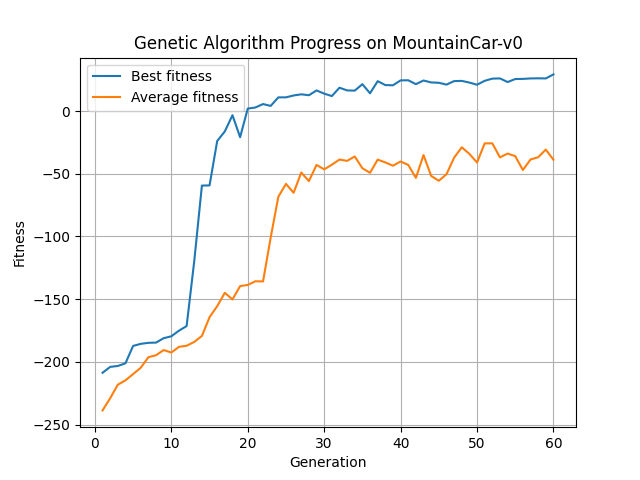
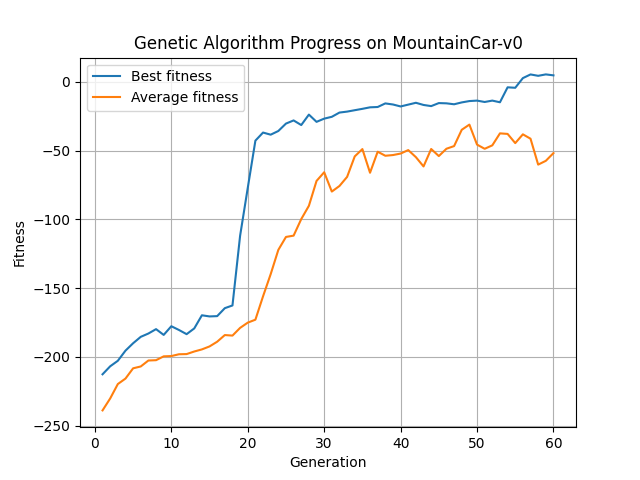
initial fix

diff --git a/mountain_car_ga.py b/mountain_car_ga.py
@@ -318,7 +318,7 @@ if __name__ == "__main__":
     best_individual, history = train()
 
     print("\nTesting best evolved individual...")
-    test_individual(best_individual, render=False)
+    test_individual(best_individual, render=True)
 
     print("\nSaved files:")
     print("- results.csv")